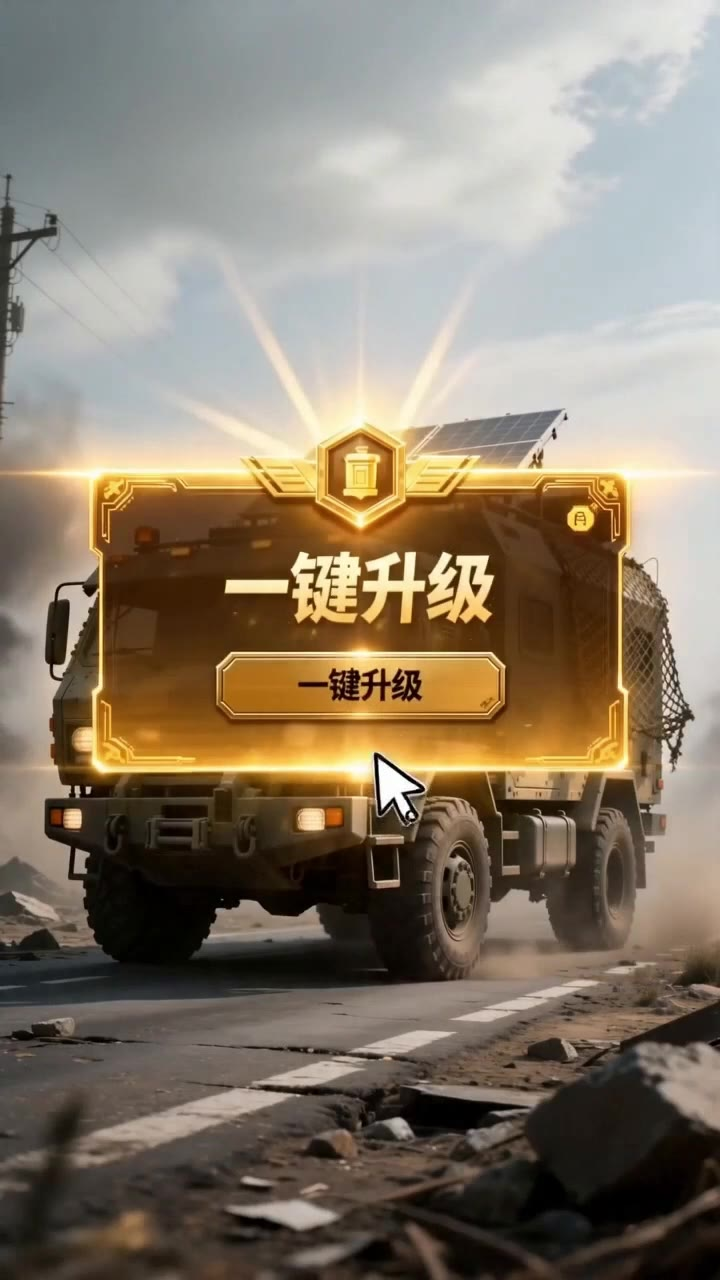
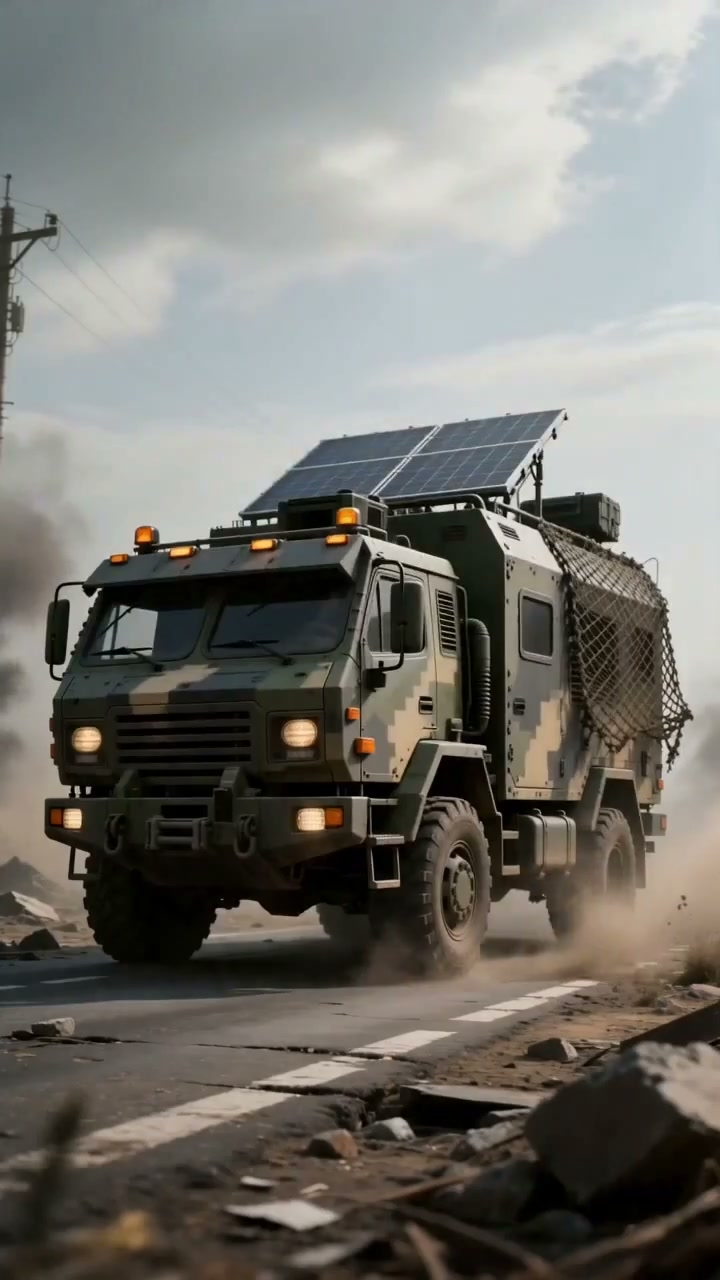
Remove featured section and name four original product campaigns

Changed region(s): [[0.0, 0.2188, 1.0, 0.7812], [0.4889, 0.7188, 0.6722, 0.7812]]

diff --git a/app/page.tsx b/app/page.tsx
@@ -23,7 +23,7 @@ type Project = {
   source?: string;
   pagePrefix?: string;
   pageCount?: number;
-  featured?: boolean;
+  productName?: string;
   long?: boolean;
   portrait?: boolean;
   position?: string;
@@ -61,14 +61,15 @@ const asset = (filename: string) => filename.endsWith(".mp4")
 const projects: Project[] = [
   {
     id: "amazon-shoe-wash", index: "23",
-    title: "轻松洗鞋", english: "AMAZON OVERSEAS E-COMMERCE AD",
-    listingTitle: "亚马逊海外电商 · 洗鞋袋场景广告",
-    listingEnglish: "SHOE WASH BAG / OVERSEAS SOCIAL AD",
-    coverLabel: "OVERSEAS E-COMMERCE", category: "海外电商 / 家居清洁 / 场景演示",
+    productName: "净步洗鞋袋",
+    title: "让日常焕新", english: "A FRESH START",
+    listingTitle: "净步洗鞋袋 · 让日常焕新",
+    listingEnglish: "CLEANSTEP / A FRESH START",
+    coverLabel: "CLEANSTEP / SHOE CARE", category: "海外电商 / 家居清洁 / 场景演示",
     group: "铺量广告", year: "2026",
     cover: asset("amazon-shoe-wash-poster.jpg"), coverFormat: "vertical",
     media: "video", source: asset("amazon-shoe-wash.mp4"), portrait: true,
-    summary: "从家庭洗鞋难题切入，通过洗鞋袋装袋、机洗与清洁效果展示，串联生活情境、产品演示与英文行动引导。",
+    summary: "为原创商品“净步洗鞋袋”设定海外电商场景，以家庭洗鞋难题切入，串联装袋、机洗与清洁效果展示，用生活情境和英文行动引导完成产品表达。",
     role: "海外电商广告创作", deliverable: "28 秒竖屏海外电商广告",
   },
   {
@@ -122,7 +123,6 @@ const projects: Project[] = [
     coverFormat: "landscape",
     media: "video",
     source: asset("hero-headphones.mp4"),
-    featured: true,
     summary: "以微距材质、精密结构与低照度氛围，建立高端头戴耳机的科技感与听觉想象。",
     role: "创意概念 · AI 视觉 · 动态剪辑",
     deliverable: "16 秒耳机品牌广告片",
@@ -142,7 +142,6 @@ const projects: Project[] = [
     coverFormat: "landscape",
     media: "video",
     source: asset("mecha-toy.mp4"),
-    featured: true,
     summary: "从原创机甲设定到战场叙事，用统一的机械语言完成角色、世界观与产品广告表达。",
     role: "世界观设定 · 视觉开发 · 成片",
     deliverable: "33 秒原创机甲广告片",
@@ -162,7 +161,6 @@ const projects: Project[] = [
     coverFormat: "landscape",
     media: "video",
     source: asset("shishanju.mp4"),
-    featured: true,
     summary: "以克制、温暖的东方生活感组织空间镜头，让一座民宿从建筑变成可被向往的旅居体验。",
     role: "视觉提案 · 场景生成 · 影片制作",
     deliverable: "23 秒品牌形象片",
@@ -181,7 +179,6 @@ const projects: Project[] = [
     cover: asset("phone-v2-hero.png"),
     coverFormat: "landscape",
     media: "image",
-    featured: true,
     position: "center top",
     summary: "围绕影像、性能与旗舰工艺重组信息层级，建立从首屏冲击到参数说服的完整电商叙事。",
     role: "视觉策略 · 页面设计 · AI 制图",
@@ -203,7 +200,6 @@ const projects: Project[] = [
     media: "pages",
     pagePrefix: "dumpling-ip",
     pageCount: 17,
-    featured: true,
     summary: "把亲切的社交语义转化成可识别、可延展的饺子 IP，覆盖品牌策略、角色、语言与传播应用。",
     role: "品牌策略 · IP 设计 · 应用延展",
     deliverable: "17 页品牌全案",
@@ -222,7 +218,6 @@ const projects: Project[] = [
     cover: asset("magazine-cover.webp"),
     coverFormat: "portrait",
     media: "image",
-    featured: true,
     long: true,
     position: "center 18%",
     summary: "以复古雕版、东方祝愿与当代版式构成高密度视觉封面，探索传统意象的现代转译。",
@@ -329,11 +324,12 @@ const projects: Project[] = [
   {
     id: "game-wholesale",
     index: "12",
-    title: "一键升级",
-    english: "GAME UA CREATIVE",
-    listingTitle: "游戏 UA 竖屏买量广告",
-    listingEnglish: "GAME UA VERTICAL PERFORMANCE AD",
-    coverLabel: "GAME UA CREATIVE",
+    productName: "余烬车队",
+    title: "向废土进发",
+    english: "INTO THE WASTELAND",
+    listingTitle: "余烬车队 · 向废土进发",
+    listingEnglish: "ASH CONVOY / INTO THE WASTELAND",
+    coverLabel: "ASH CONVOY / GAME FILM",
     category: "游戏买量 / 效果广告",
     group: "铺量广告",
     year: "2026",
@@ -342,18 +338,19 @@ const projects: Project[] = [
     media: "video",
     source: asset("game-wholesale.mp4"),
     portrait: true,
-    summary: "以直接冲突、即时反馈和升级爽点组织竖屏买量节奏，让信息在前三秒快速成立。",
+    summary: "以原创游戏“余烬车队”建立废土载具设定，将冲突、即时反馈与升级爽点融入竖屏节奏，突出车队进发与生存冒险的观看驱动力。",
     role: "买量创意 · 画面生成 · 剪辑",
     deliverable: "15 秒竖屏买量广告",
   },
   {
     id: "power-bank",
     index: "13",
-    title: "随身能量",
-    english: "POWER BANK SOCIAL AD",
-    listingTitle: "充电宝社交平台竖屏广告",
-    listingEnglish: "POWER BANK VERTICAL SOCIAL AD",
-    coverLabel: "SOCIAL PRODUCT FILM",
+    productName: "昼行随身电源",
+    title: "能量不打烊",
+    english: "POWER THROUGH THE DAY",
+    listingTitle: "昼行随身电源 · 能量不打烊",
+    listingEnglish: "DAYWALK / POWER THROUGH THE DAY",
+    coverLabel: "DAYWALK / PORTABLE POWER",
     category: "数码产品 / 社交广告",
     group: "铺量广告",
     year: "2026",
@@ -362,18 +359,19 @@ const projects: Project[] = [
     media: "video",
     source: asset("power-bank.mp4"),
     portrait: true,
-    summary: "以生活场景切入便携充电需求，用人物演示快速连接产品功能与真实使用情境。",
+    summary: "以原创商品“昼行随身电源”组织生活场景，通过人物演示连接便携充电需求与日常体验，形成轻快、直接的竖屏产品表达。",
     role: "脚本 · AI 人物 · 成片",
     deliverable: "15 秒竖屏产品广告",
   },
   {
     id: "chicken-feet",
     index: "14",
-    title: "一口上头",
-    english: "SNACK FOOD SHORT AD",
-    listingTitle: "一口上头 · 抖音竖屏铺量广告",
-    listingEnglish: "DOUYIN VERTICAL PERFORMANCE AD",
-    coverLabel: "FOOD PERFORMANCE AD",
+    productName: "椒醒柠檬凤爪",
+    title: "酸辣有回响",
+    english: "A TASTE THAT LINGERS",
+    listingTitle: "椒醒柠檬凤爪 · 酸辣有回响",
+    listingEnglish: "PEPPER WAKE / A TASTE THAT LINGERS",
+    coverLabel: "PEPPER WAKE / SNACK FILM",
     category: "抖音铺量 / 食品零食 / 效果广告",
     group: "铺量广告",
     year: "2026",
@@ -382,7 +380,7 @@ const projects: Project[] = [
     media: "video",
     source: asset("chicken-feet.mp4"),
     portrait: true,
-    summary: "以夸张人物反应、口味提示与产品特写形成高密度节奏，强化零食的即时诱惑。",
+    summary: "围绕原创商品“椒醒柠檬凤爪”，以人物反应、酸辣口味提示和产品特写组织高密度节奏，完成适合抖音竖屏传播的零食广告表达。",
     role: "创意脚本 · AI 表演 · 剪辑",
     deliverable: "15 秒竖屏食品广告",
   },
@@ -697,6 +695,7 @@ function CoverIdentity({ project }: { project: Project }) {
   return (
     <span className="cover-identity" aria-hidden="true">
       <span className="cover-kicker"><i>{coverTypeLabel(project)}</i><b>{project.year}</b></span>
+      {project.productName && <span className="cover-product">{project.productName}</span>}
       <strong>{project.title}</strong>
       <em>{project.english}</em>
       <small>{project.category}</small>
@@ -787,31 +786,6 @@ function CoverArtwork({
       )}
       <span className="media-preview-shade" aria-hidden="true" />
     </>
-  );
-}
-
-function ProjectCard({ project }: { project: Project }) {
-  const preview = useCoverPreview(project);
-  return (
-    <article className={`project-card project-${project.id} cover-${project.coverFormat} ${project.id === "headphones" ? "is-wide" : ""}`}>
-      <a
-        className={`project-media media-stage cover-${project.coverFormat} media-${project.media} ${project.long ? "is-long-artwork" : ""} ${preview.previewing ? "is-previewing" : ""}`}
-        href={`#case/${project.id}`}
-        onClick={rememberPortfolioPosition}
-        aria-label={`预览并查看完整项目：${project.title}`}
-        {...preview.previewEvents}
-      >
-        <CoverArtwork project={project} previewing={preview.previewing} videoRef={preview.videoRef} onCanPlay={preview.continuePlayback} />
-        <CoverIdentity project={project} />
-        <span className="media-frame-note" aria-hidden="true">{coverPreviewLabel(project, preview.previewing)}</span>
-        <span className="project-index">CASE / {project.index}</span>
-        <span className="open-project">VIEW COMPLETE CASE <Arrow /></span>
-      </a>
-      <div className="project-meta">
-        <div><h3>{project.listingTitle ?? project.title}</h3><p>{project.listingEnglish ?? project.english}</p></div>
-        <div><span>{project.category}</span><time>{project.year}</time></div>
-      </div>
-    </article>
   );
 }
 
@@ -1299,6 +1273,7 @@ function CaseScene({ project }: { project: Project }) {
           <dl>
             <div><dt>我的角色</dt><dd>{project.role}</dd></div>
             <div><dt>交付内容</dt><dd>{project.deliverable}</dd></div>
+            {project.productName && <div><dt>原创商品名称</dt><dd>{project.productName}</dd></div>}
             <div><dt>项目类型</dt><dd>{project.category}</dd></div>
           </dl>
         </div>
@@ -1355,7 +1330,7 @@ function CaseScene({ project }: { project: Project }) {
 function PortfolioHome() {
   const [scrolled, setScrolled] = useState(false);
   const [progress, setProgress] = useState(0);
-  const [activeSection, setActiveSection] = useState("work");
+  const [activeSection, setActiveSection] = useState("archive");
   const [wechatOpen, setWechatOpen] = useState(false);
   const wechatCloseRef = useRef<HTMLButtonElement>(null);
   const [filter, setFilter] = useState<ProjectGroup>(() => {
@@ -1363,7 +1338,6 @@ function PortfolioHome() {
     const saved = readSessionValue("portfolio:filter") as ProjectGroup | null;
     return saved && filters.includes(saved) ? saved : filters[0];
   });
-  const featuredProjects = projects.filter((project) => project.featured);
   const archiveProjects = useMemo(() => {
     const filteredProjects = projects.filter((project) => project.group === filter);
     if (filter !== "视觉与设计") return filteredProjects;
@@ -1391,7 +1365,7 @@ function PortfolioHome() {
   }, [filter]);
 
   useEffect(() => {
-    const sectionIds = ["profile", "work", "archive", "strengths", "contact"];
+    const sectionIds = ["profile", "archive", "strengths", "contact"];
     const sections = sectionIds
       .map((id) => document.getElementById(id))
       .filter((section): section is HTMLElement => Boolean(section));
@@ -1402,7 +1376,7 @@ function PortfolioHome() {
       activeFrame = requestAnimationFrame(() => {
         activeFrame = 0;
         if (window.scrollY < window.innerHeight * .55) {
-          setActiveSection("work");
+          setActiveSection("archive");
           return;
         }
 
@@ -1491,18 +1465,17 @@ function PortfolioHome() {
       <header className={`site-header ${scrolled ? "is-scrolled" : ""}`}>
         <div className="header-inner">
           <a className="brand" href="#top" aria-label="返回首页"><AvatarIdentity /></a>
-          <nav aria-label="主导航"><a className={activeSection === "work" ? "active" : ""} href="#work"><span>01</span> 精选</a><a className={activeSection === "archive" ? "active" : ""} href="#archive"><span>02</span> 分类作品</a><a className={activeSection === "strengths" ? "active" : ""} href="#strengths"><span>03</span> 优势</a><a className={activeSection === "profile" ? "active" : ""} href="#profile"><span>04</span> 关于</a></nav>
+          <nav aria-label="主导航"><a className={activeSection === "archive" ? "active" : ""} href="#archive"><span>01</span> 分类作品</a><a className={activeSection === "strengths" ? "active" : ""} href="#strengths"><span>02</span> 优势</a><a className={activeSection === "profile" ? "active" : ""} href="#profile"><span>03</span> 关于</a></nav>
           <a className="contact-pill" href="#contact">联系合作 <Arrow /></a>
         </div>
         <div className="page-progress" style={{ width: `${progress}%` }} />
       </header>
 
       <nav className="mobile-nav" aria-label="手机快捷导航">
-        <a className={activeSection === "work" ? "active" : ""} href="#work"><span>01</span>作品</a>
-        <a className={activeSection === "archive" ? "active" : ""} href="#archive"><span>02</span>分类</a>
-        <a className={activeSection === "strengths" ? "active" : ""} href="#strengths"><span>03</span>优势</a>
-        <a className={activeSection === "profile" ? "active" : ""} href="#profile"><span>04</span>关于</a>
-        <a className={activeSection === "contact" ? "active" : ""} href="#contact"><span>05</span>联系</a>
+        <a className={activeSection === "archive" ? "active" : ""} href="#archive"><span>01</span>作品</a>
+        <a className={activeSection === "strengths" ? "active" : ""} href="#strengths"><span>02</span>优势</a>
+        <a className={activeSection === "profile" ? "active" : ""} href="#profile"><span>03</span>关于</a>
+        <a className={activeSection === "contact" ? "active" : ""} href="#contact"><span>04</span>联系</a>
       </nav>
 
       <section className="hero" id="top">
@@ -1514,7 +1487,7 @@ function PortfolioHome() {
           <div className="hero-footer">
             <p>DESIGNING WHAT PEOPLE FEEL<br />BEFORE THEY READ.</p>
             <div className="hero-disciplines"><span>{projects.filter((project) => project.media === "video").length} FULL FILMS</span><span>28 PDF PAGES</span><span>5 COMPLETE ARTWORKS</span></div>
-            <a className="scroll-cue" href="#work"><span>VIEW ALL</span><i>↓</i></a>
+            <a className="scroll-cue" href="#archive"><span>VIEW ALL</span><i>↓</i></a>
           </div>
         </div>
         <div className="hero-side" aria-hidden="true">ART × TECHNOLOGY × BUSINESS</div>
@@ -1539,11 +1512,8 @@ function PortfolioHome() {
 
       <section className="work section" id="work">
         <div className="shell work-shell">
-          <div className="section-rail light"><span>02</span><p>SELECTED<br />WORKS</p></div>
+          <div className="section-rail light"><span>02</span><p>PORTFOLIO<br />WORKS</p></div>
           <div className="work-main">
-            <div className="work-heading"><div><p className="overline">CURATED PROJECTS / 2024—2026</p><h2 className="motion-title">精选项目</h2></div></div>
-            <div className="project-grid">{featuredProjects.map((project) => <ProjectCard key={project.id} project={project} />)}</div>
-
             <section className="archive" id="archive">
               <div className="archive-heading">
                 <div><p className="overline">PROJECT CATEGORIES / EVERY WORK INCLUDED</p><h2 className="motion-title">分类作品</h2></div>
@@ -1573,7 +1543,7 @@ function PortfolioHome() {
 
       <footer className="contact" id="contact">
         <div className="contact-grid" aria-hidden="true" />
-        <div className="contact-inner shell"><div className="contact-top"><span><i /> OPEN FOR COLLABORATION</span><span>LUO TIANXIANG / CHINA</span></div><div className="contact-title"><p>HAVE A PROJECT IN MIND?</p><h2 className="motion-title">让下一个想法<br /><em>成为真实作品</em></h2></div><div className="contact-actions"><a className="contact-email" href="mailto:1158190818@qq.com"><span>1158190818@QQ.COM</span><Arrow /></a><button type="button" className="wechat-contact" onClick={() => setWechatOpen(true)}><span><small>WECHAT</small>LTX</span><b>打开二维码 <Arrow /></b></button></div><div className="contact-bottom"><span>© 2026 罗天翔 · AIGC VISUAL DESIGNER</span><div><a href="#top">BACK TO TOP ↑</a><a href="#work">WORKS</a><a href="#strengths">CAPABILITIES</a></div><a href="tel:+8618229693585">+86 182 2969 3585</a></div></div>
+        <div className="contact-inner shell"><div className="contact-top"><span><i /> OPEN FOR COLLABORATION</span><span>LUO TIANXIANG / CHINA</span></div><div className="contact-title"><p>HAVE A PROJECT IN MIND?</p><h2 className="motion-title">让下一个想法<br /><em>成为真实作品</em></h2></div><div className="contact-actions"><a className="contact-email" href="mailto:1158190818@qq.com"><span>1158190818@QQ.COM</span><Arrow /></a><button type="button" className="wechat-contact" onClick={() => setWechatOpen(true)}><span><small>WECHAT</small>LTX</span><b>打开二维码 <Arrow /></b></button></div><div className="contact-bottom"><span>© 2026 罗天翔 · AIGC VISUAL DESIGNER</span><div><a href="#top">BACK TO TOP ↑</a><a href="#archive">WORKS</a><a href="#strengths">CAPABILITIES</a></div><a href="tel:+8618229693585">+86 182 2969 3585</a></div></div>
       </footer>
 
       {wechatOpen && (

diff --git a/app/globals.css b/app/globals.css
@@ -1080,7 +1080,7 @@ body:has(a:hover, button:hover) ::selection { background: white; }
     min-height: 58px;
     padding: 5px;
     display: grid;
-    grid-template-columns: repeat(5, minmax(0, 1fr));
+    grid-template-columns: repeat(4, minmax(0, 1fr));
     gap: 3px;
     color: #bcecff;
     background: rgba(2, 18, 57, .97);
@@ -1719,3 +1719,6 @@ h1, h2, h3 { text-wrap: balance; }
 .archive-grid--masonry .archive-meta > span { display: none; }
 @media (max-width: 1100px) { .archive-grid--masonry { column-count: 2; } }
 @media (max-width: 700px) { .archive-grid--masonry { column-count: 1; } .archive-grid--masonry > .archive-card { margin-bottom: 28px; } }
+
+.work-main > .archive { margin-top: 0; padding-top: 0; border-top: 0; }
+.cover-product { display: block; margin-bottom: 8px; color: #eef8ff; font-size: 13px; font-weight: 700; letter-spacing: .08em; }
